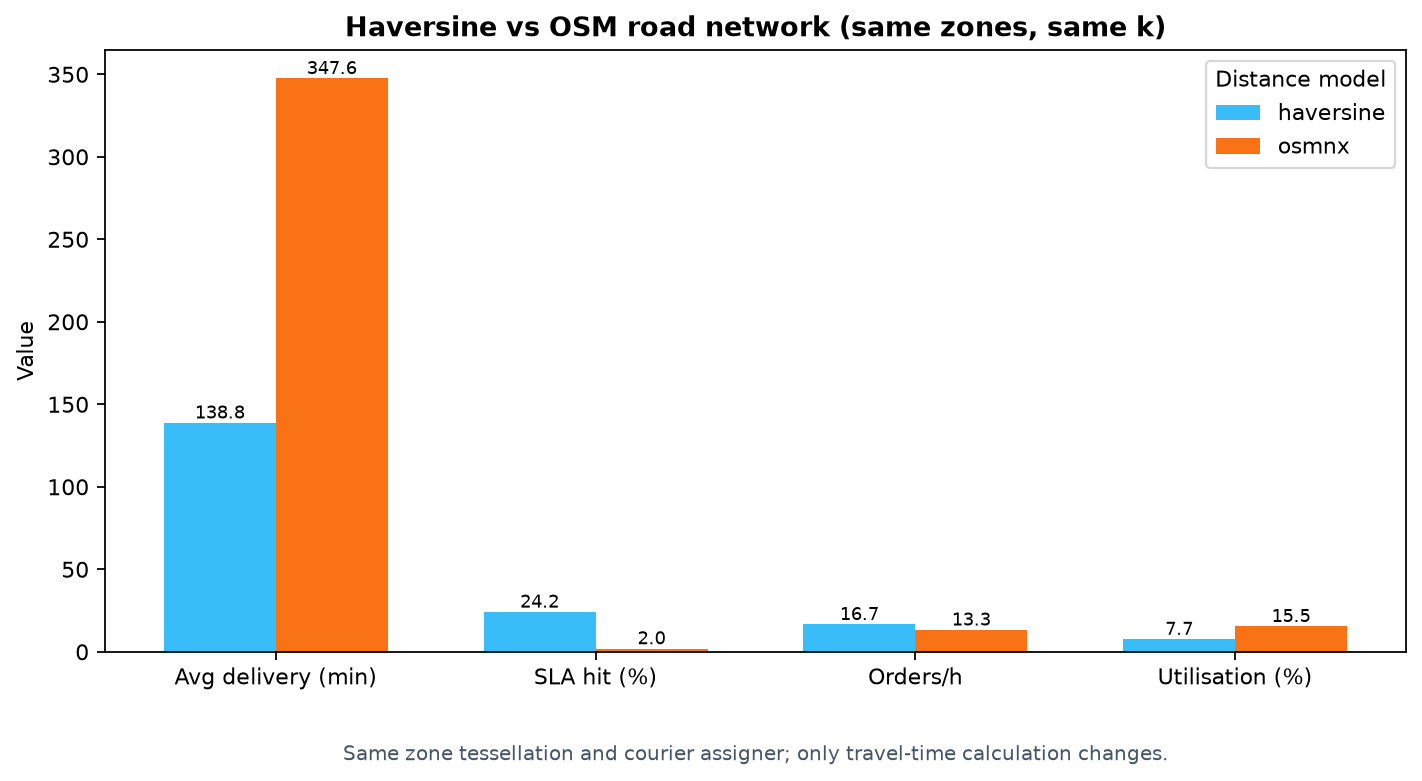
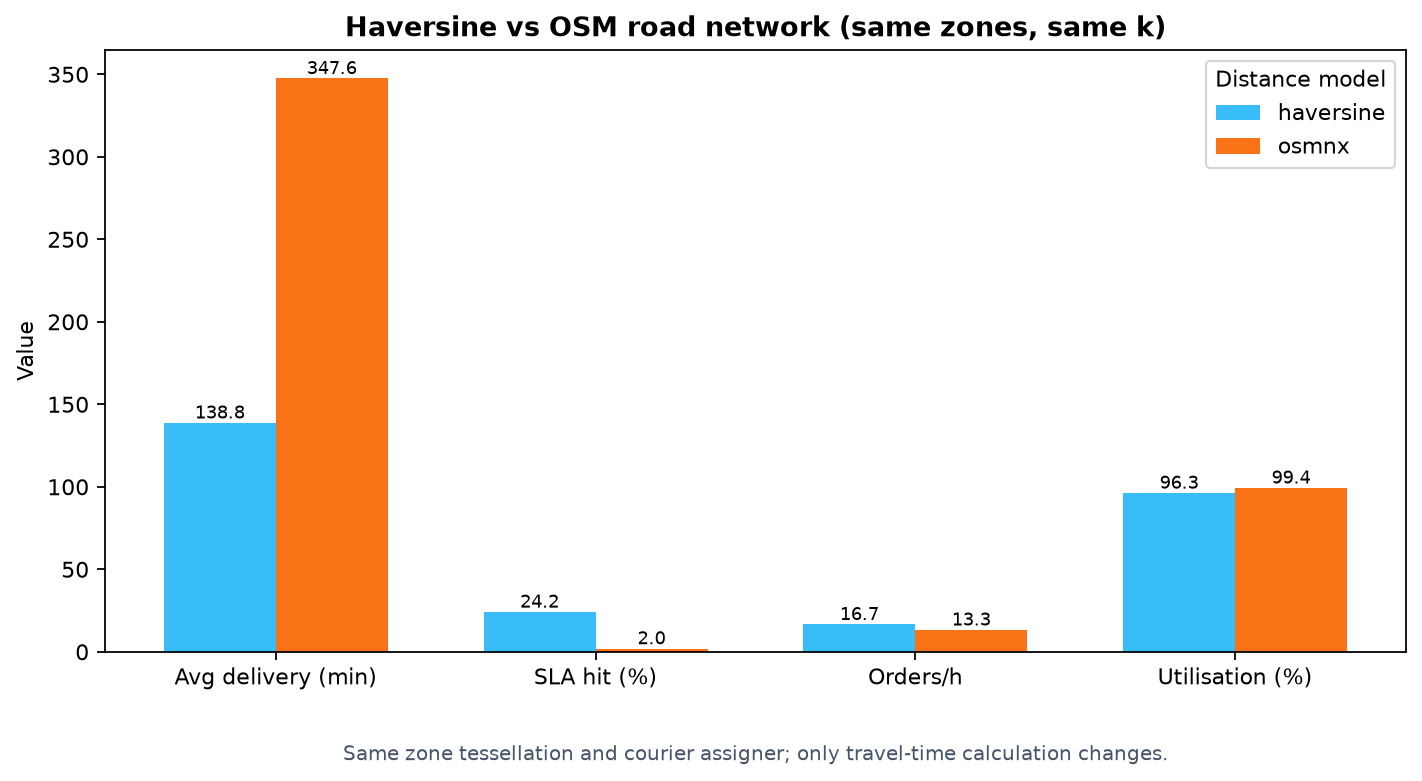
Pages workflow: install [roads] extra and make asset script fall back without OSMnx
pages.yml installed only [dev,portfolio] while generate_portfolio_assets.py always ran
the OSMnx comparison, so the build could never succeed. The workflow now installs the
[roads] extra and caches the OSM drive graph; the script gains --no-roads and falls
back to a haversine-only chart (with a warning) if osmnx is missing or Overpass fails,
so the deploy does not depend on network availability. Demo report and comparison
chart regenerated with the corrected utilisation metric.

Changed region(s): [[0.7736, 0.5839, 0.9592, 0.8297]]

diff --git a/scripts/generate_portfolio_assets.py b/scripts/generate_portfolio_assets.py
@@ -1,19 +1,53 @@
 #!/usr/bin/env python3
-"""Generate README screenshots and GitHub Pages demo assets."""
+"""Generate README screenshots and GitHub Pages demo assets.
+
+Usage:
+    python scripts/generate_portfolio_assets.py            # haversine + OSMnx (if available)
+    python scripts/generate_portfolio_assets.py --no-roads # haversine only, never touches OSMnx
+
+The OSMnx comparison needs the ``[roads]`` extra and (on a cold cache) network access
+to Overpass. If either is missing the script logs a warning and falls back to a
+haversine-only chart instead of failing, so the Pages workflow always produces assets.
+"""
 
 from __future__ import annotations
 
+import argparse
 import shutil
+import sys
 from pathlib import Path
 
 from teselado.config import Settings
 from teselado.ingest.loaders import load_orders_df, load_restaurants_df
 from teselado.pipeline import run_pipeline
-from teselado.simulation.compare import compare_distances_from_settings
+from teselado.simulation.compare import DistanceComparison, compare_distances_from_settings
 from teselado.viz.static import export_distance_comparison_png, export_zone_map_png
 
 
-def main() -> None:
+def _parse_args(argv: list[str] | None = None) -> argparse.Namespace:
+    parser = argparse.ArgumentParser(description=__doc__.splitlines()[0])
+    parser.add_argument(
+        "--no-roads",
+        action="store_true",
+        help="Skip the OSMnx road-network run; produce a haversine-only comparison chart.",
+    )
+    return parser.parse_args(argv)
+
+
+def _distance_comparisons(cfg: Settings, k: int, use_roads: bool) -> list[DistanceComparison]:
+    if use_roads:
+        try:
+            return compare_distances_from_settings(cfg, k=k, modes=["haversine", "osmnx"])
+        except ImportError as exc:
+            print(f"WARNING: OSMnx unavailable ({exc}); falling back to haversine only.")
+        except Exception as exc:  # noqa: BLE001 - network/Overpass failures must not abort CI
+            print(f"WARNING: OSMnx comparison failed ({type(exc).__name__}: {exc}); "
+                  "falling back to haversine only.")
+    return compare_distances_from_settings(cfg, k=k, modes=["haversine"])
+
+
+def main(argv: list[str] | None = None) -> int:
+    args = _parse_args(argv)
     repo_root = Path(__file__).resolve().parents[1]
     output_dir = repo_root / "outputs"
     images_dir = repo_root / "docs" / "images"
@@ -45,14 +79,21 @@ def main() -> None:
         ),
     )
 
-    distance_comparisons = compare_distances_from_settings(
-        cfg,
-        k=result.k,
-        modes=["haversine", "osmnx"],
-    )
+    distance_comparisons = _distance_comparisons(cfg, result.k, use_roads=not args.no_roads)
+    for item in distance_comparisons:
+        m = item.metrics
+        print(
+            f"distance={item.distance_mode}, k={item.k}: "
+            f"avg_delivery={m['avg_delivery_time_min']} min, sla={m['sla_hit_rate']}, "
+            f"orders/h={m['orders_per_hour']}, utilisation={m['courier_utilisation']}"
+        )
+    title = None
+    if len(distance_comparisons) == 1:
+        title = "Haversine baseline (OSMnx road network not available in this run)"
     export_distance_comparison_png(
         distance_comparisons,
         images_dir / "distance_comparison.png",
+        **({"title": title} if title else {}),
     )
 
     demo_dir.mkdir(parents=True, exist_ok=True)
@@ -64,7 +105,8 @@ def main() -> None:
     print(f"Wrote {images_dir / 'map.png'}")
     print(f"Wrote {images_dir / 'distance_comparison.png'}")
     print(f"Copied demo assets to {demo_dir}")
+    return 0
 
 
 if __name__ == "__main__":
-    main()
+    sys.exit(main())
